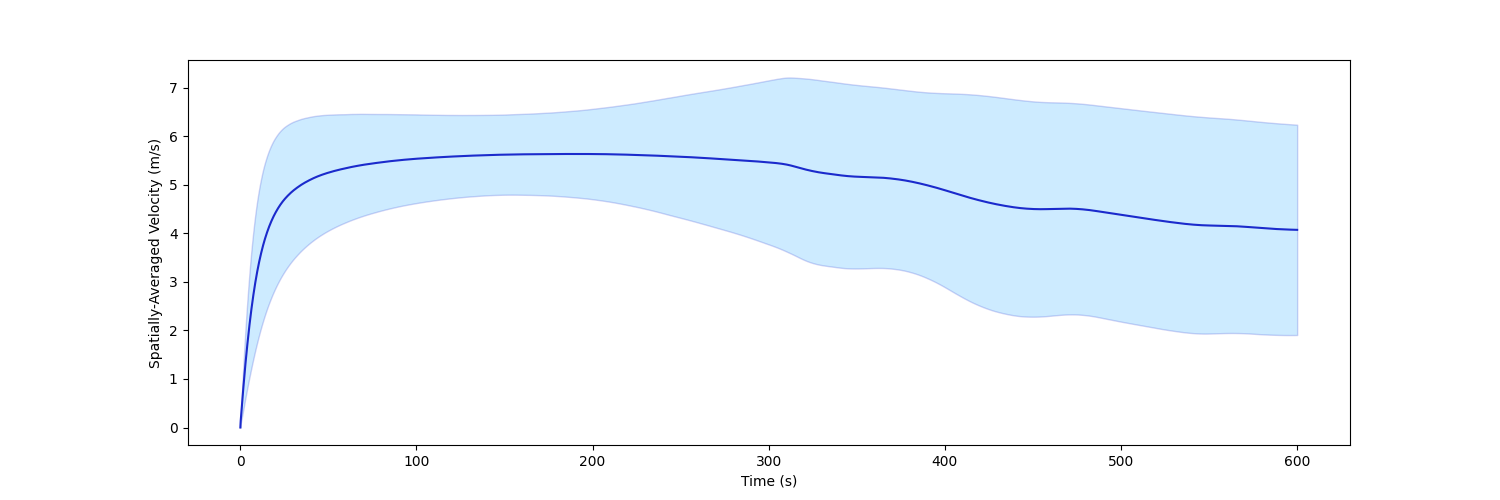
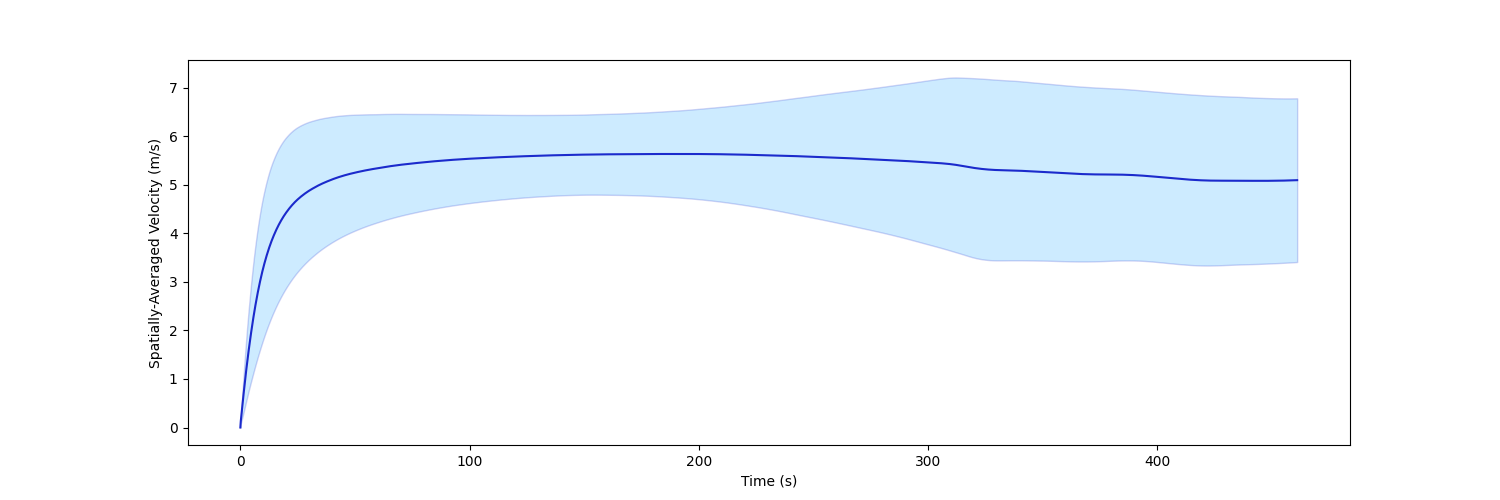
reward change

diff --git a/main.py b/main.py
@@ -17,7 +17,7 @@ def main():
         scripts.train_dqn.evaluate("/home/vamsi/Documents/GitHub/RingRoad-RL/Models/DQN/DQNTrainer_2022-03-03_19-28-07/DQNTrainer_ringroad-v1_f4621_00000_0_2022-03-03_19-28-08/checkpoint_000488/checkpoint-488")
 
     elif args.type == "eval_ppo":
-        scripts.train_ppo.evaluate("/home/vamsi/Documents/GitHub/RingRoad-RL/Models/PPO/PPOTrainer_2022-03-13_07-46-57/PPOTrainer_ringroad-v1_a8da9_00000_0_2022-03-13_07-46-58/checkpoint_000250/checkpoint-250")
+        scripts.train_ppo.evaluate("/home/vamsi/Documents/GitHub/RingRoad-RL/Models/PPO/PPOTrainer_2022-03-13_13-05-13/PPOTrainer_ringroad-v1_1ef78_00000_0_2022-03-13_13-05-14/checkpoint_000250/checkpoint-250")
 
     elif args.type == "eval_idm":
         scripts.evaluate_idm.evaluate()

diff --git a/Ring_Road/envs/ringroad.py b/Ring_Road/envs/ringroad.py
@@ -123,10 +123,10 @@ class RingRoad(gym.Env):
 
         # reward average velocity
         eta_2 = 4.
-        reward = self.state_extractor.get_average_vel()
+        reward = self.state_extractor.get_average_vel() / 5
 
         # punish accelerations (should lead to reduced stop-and-go waves)
-        eta = 0.5  # 0.25
+        eta = 0.25  # 0.25
         mean_actions = eta * np.mean(np.abs(action))
         accel_threshold = 0
 

diff --git a/experiment.py b/experiment.py
@@ -85,6 +85,6 @@ class Experiment:
             met.step()
             episode_reward += reward
             # env.render()
-            # print(env.action_steps, reward)
+            print(env.action_steps, reward)
         met.plot()
         return episode_reward
